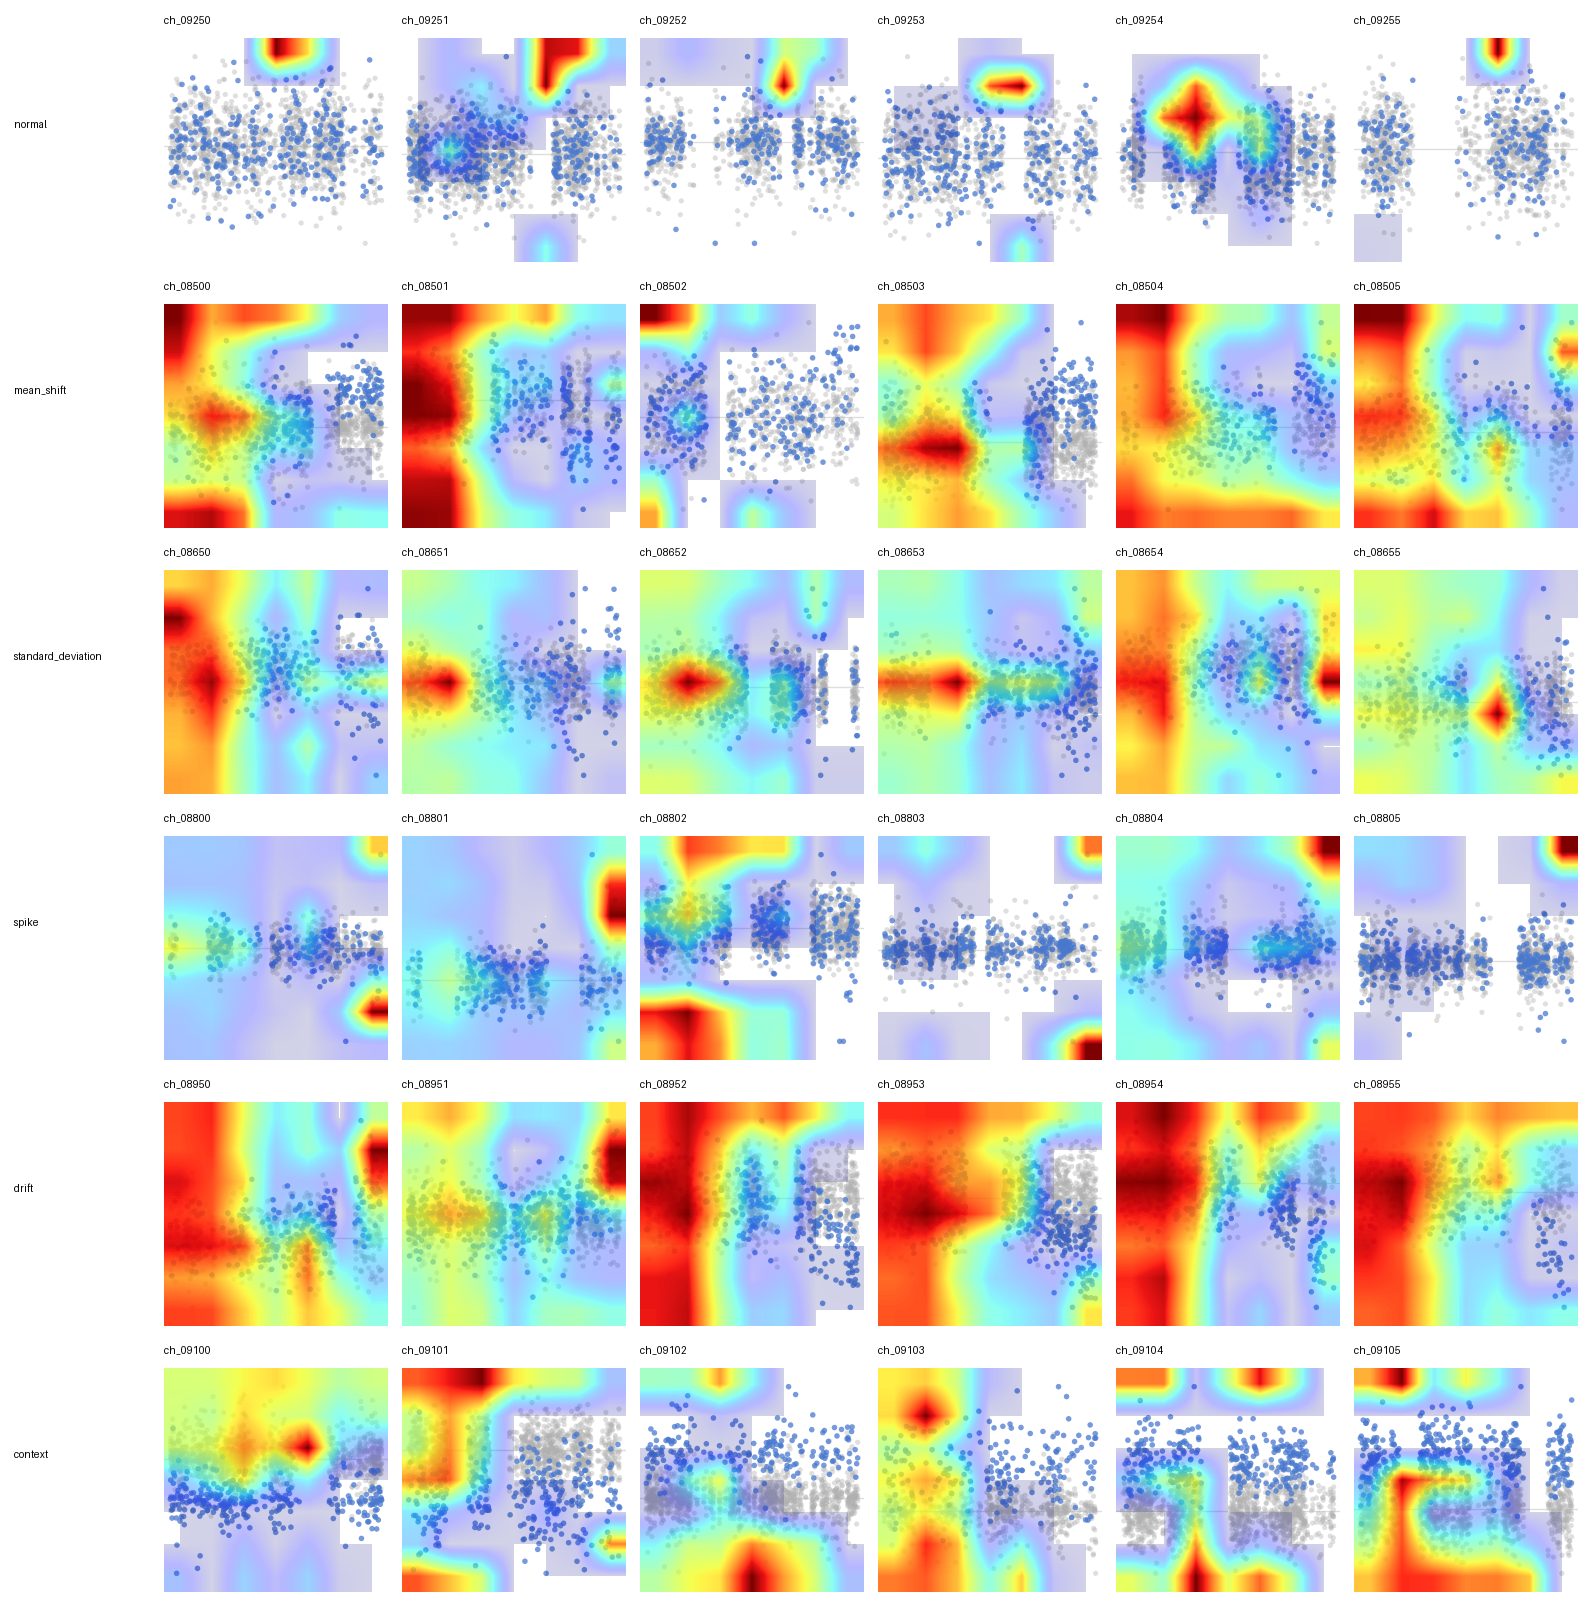
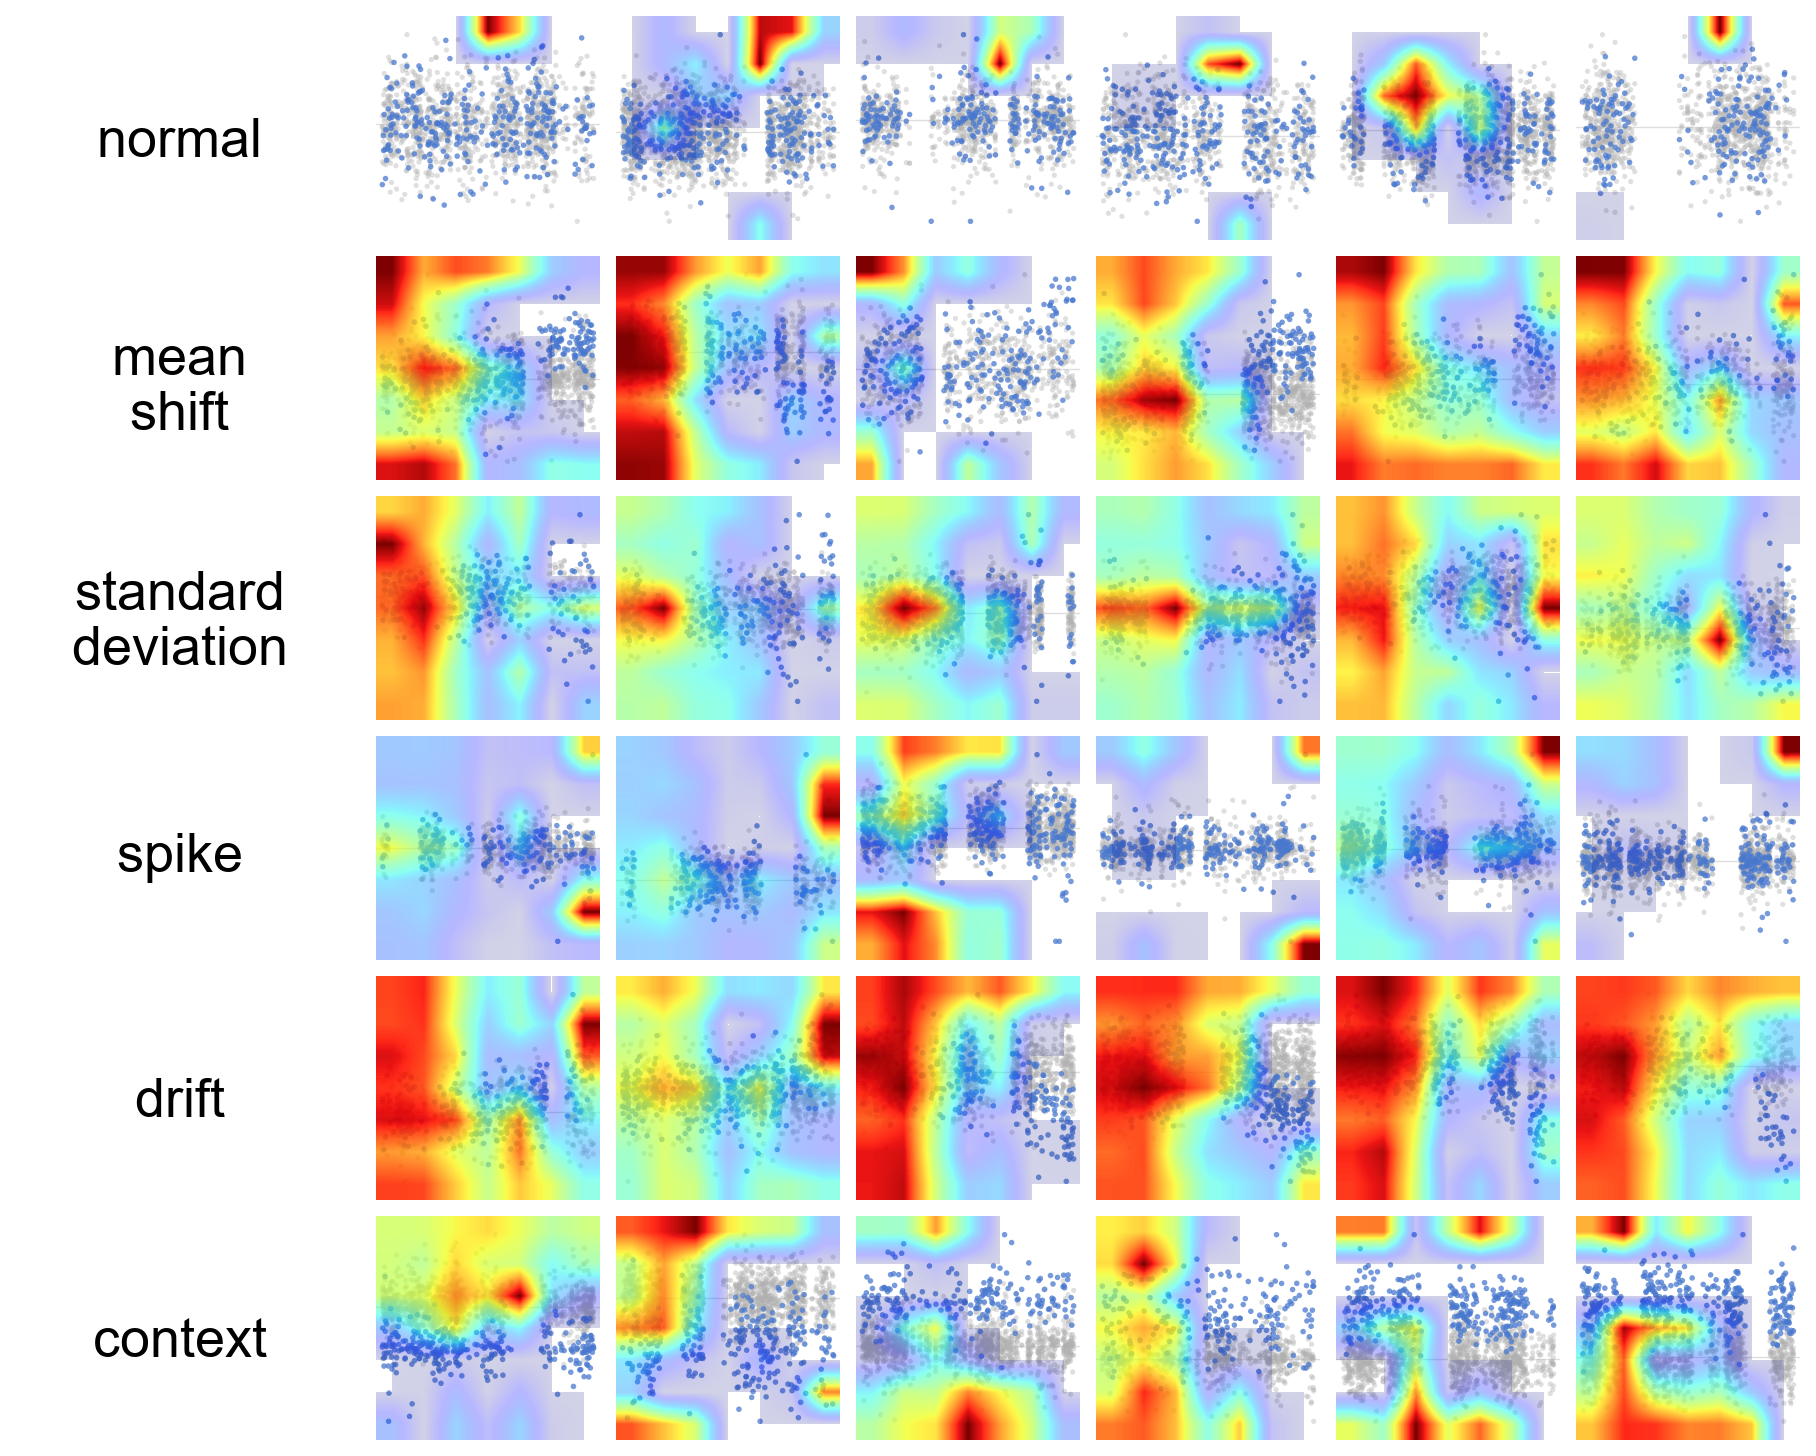
Improve Grad-CAM gallery labels

diff --git a/scripts/gradcam_error_report.py b/scripts/gradcam_error_report.py
@@ -20,7 +20,15 @@ for path in [ROOT, SCRIPT_DIR]:
     if str(path) not in sys.path:
         sys.path.insert(0, str(path))
 
-from gradcam_report import GradCam, build_transform, heat_stats, resolve_layer, save_cam_on_image, save_heat_only_cam
+from gradcam_report import (
+    GradCam,
+    build_transform,
+    heat_stats,
+    load_font,
+    resolve_layer,
+    save_cam_on_image,
+    save_heat_only_cam,
+)
 from inference import _load_model_from_best_info
 
 
@@ -69,33 +77,46 @@ def matches_error(row: dict[str, Any], error_type: str) -> bool:
 def write_gallery(rows: list[dict[str, Any]], gallery_out: Path) -> None:
     if not rows:
         return
-    cell_w, cell_h = 260, 268
-    pad = 18
-    cols = min(3, len(rows))
+    cell_w, image_h, title_h = 224, 224, 56
+    cell_h = image_h + title_h
+    pad = 14
+    cols = min(6, len(rows))
     rows_n = (len(rows) + cols - 1) // cols
     canvas = Image.new("RGBA", (cols * cell_w + (cols + 1) * pad, rows_n * cell_h + (rows_n + 1) * pad), "WHITE")
     draw = ImageDraw.Draw(canvas)
+    title_font = load_font(28)
+    meta_font = load_font(14)
     for idx, row in enumerate(rows):
         x = pad + (idx % cols) * (cell_w + pad)
         y = pad + (idx // cols) * (cell_h + pad)
-        title = f"{row['error_type'].upper()} {row['chart_id']} p={float(row['p_abnormal']):.4f}"
-        draw.text((x, y), title, fill=(0, 0, 0, 255))
+        label = str(row["error_type"]).upper().replace("_", " ")
+        label_bbox = draw.textbbox((0, 0), label, font=title_font)
+        label_x = x + max(0, (cell_w - (label_bbox[2] - label_bbox[0])) // 2)
+        draw.text((label_x, y), label, fill=(0, 0, 0, 255), font=title_font)
+        meta = f"p_abn={float(row['p_abnormal']):.4f}"
+        meta_bbox = draw.textbbox((0, 0), meta, font=meta_font)
+        meta_x = x + max(0, (cell_w - (meta_bbox[2] - meta_bbox[0])) // 2)
+        draw.text((meta_x, y + 34), meta, fill=(50, 50, 50, 255), font=meta_font)
         overlay = Image.open(str(row["cam_overlay"])).convert("RGBA").resize((224, 224))
-        canvas.alpha_composite(overlay, (x, y + 28))
+        canvas.alpha_composite(overlay, (x, y + title_h))
     gallery_out.parent.mkdir(parents=True, exist_ok=True)
     canvas.save(gallery_out)
 
 
 def format_summary(rows: list[dict[str, Any]], args: argparse.Namespace) -> str:
+    actual_errors = sum(1 for row in rows if row["error_type"] in {"fp", "fn"})
+    hard_normal = sum(1 for row in rows if row["error_type"] == "hard_normal")
     lines = [
         "# Grad-CAM Error Report",
         "",
         f"- model_run: `{args.model_run}`",
         f"- split: `{args.split}`",
         f"- error_type: `{args.error_type}`",
-        f"- errors: `{len(rows)}`",
+        f"- selected: `{len(rows)}`",
+        f"- actual_errors: `{actual_errors}`",
+        f"- hard_normal_fill: `{hard_normal}`",
         "",
-        "| error | chart_id | true | pred | p_abnormal | left | mid | right | peak_x | cam |",
+        "| sample | chart_id | true | pred | p_abnormal | left | mid | right | peak_x | cam |",
         "| --- | --- | --- | --- | ---: | ---: | ---: | ---: | ---: | --- |",
     ]
     for row in rows:
@@ -111,6 +132,7 @@ def format_summary(rows: list[dict[str, Any]], args: argparse.Namespace) -> str:
             "Notes:",
             "- CAM target is the `abnormal` logit.",
             "- For FP, this shows what normal-looking pattern the model used as abnormal evidence.",
+            "- `hard_normal` rows are true-normal samples with high `p_abnormal`, used only when actual FP rows are fewer than the requested limit.",
             "- CAM location is evidence location, not guaranteed defect location.",
         ]
     )
@@ -129,8 +151,39 @@ def parse_args() -> argparse.Namespace:
     parser.add_argument("--heat-threshold", type=float, default=0.25)
     parser.add_argument("--heat-min-alpha", type=float, default=0.0)
     parser.add_argument("--gallery-out", default=None, type=Path)
+    parser.add_argument("--limit", type=int, default=0, help="maximum rows to run Grad-CAM for; 0 means all")
+    parser.add_argument(
+        "--fill-hard-normal",
+        action="store_true",
+        help="for FP reports, fill missing slots with normal samples ranked by p_abnormal",
+    )
     parser.add_argument("--cpu", action="store_true")
     return parser.parse_args()
+
+
+def rank_candidates(rows: list[dict[str, Any]], error_type: str) -> list[dict[str, Any]]:
+    if error_type == "fn":
+        return sorted(rows, key=lambda row: float(row["p_abnormal"]))
+    return sorted(rows, key=lambda row: float(row["p_abnormal"]), reverse=True)
+
+
+def select_items_for_cam(predicted_rows: list[dict[str, Any]], args: argparse.Namespace) -> list[dict[str, Any]]:
+    error_rows: list[dict[str, Any]] = []
+    hard_normal_rows: list[dict[str, Any]] = []
+    for row in predicted_rows:
+        if matches_error(row, args.error_type):
+            error_type = "fp" if row["true_binary"] == "normal" else "fn"
+            error_rows.append({**row, "error_type": error_type})
+        elif args.error_type == "fp" and args.fill_hard_normal and row["true_binary"] == "normal":
+            hard_normal_rows.append({**row, "error_type": "hard_normal"})
+
+    selected = rank_candidates(error_rows, args.error_type)
+    if args.limit > 0:
+        selected = selected[: args.limit]
+        remaining = args.limit - len(selected)
+        if remaining > 0 and args.error_type == "fp" and args.fill_hard_normal:
+            selected.extend(rank_candidates(hard_normal_rows, "fp")[:remaining])
+    return selected
 
 
 def main() -> int:
@@ -142,20 +195,23 @@ def main() -> int:
     transform = build_transform()
     items = load_items(args.scenarios, args.image_dir, args.split)
 
+    predicted_rows: list[dict[str, Any]] = []
+    for item in items:
+        image_path = Path(item["image_path"])
+        x = transform(Image.open(image_path).convert("RGB")).unsqueeze(0).to(device)
+        with torch.no_grad():
+            pred_class, p_abn = binary_pred(F.softmax(model(x), dim=1)[0], classes)
+        predicted_rows.append({**item, "pred_class": pred_class, "p_abnormal": p_abn})
+
+    selected_rows = select_items_for_cam(predicted_rows, args)
     rows: list[dict[str, Any]] = []
     try:
-        for item in items:
+        for item in selected_rows:
             image_path = Path(item["image_path"])
             x = transform(Image.open(image_path).convert("RGB")).unsqueeze(0).to(device)
-            with torch.no_grad():
-                pred_class, p_abn = binary_pred(F.softmax(model(x), dim=1)[0], classes)
-            base_row: dict[str, Any] = {**item, "pred_class": pred_class, "p_abnormal": p_abn}
-            if not matches_error(base_row, args.error_type):
-                continue
-
             cam, _ = gradcam(x, abn_idx)
             stats = heat_stats(cam)
-            error_type = "fp" if item["true_binary"] == "normal" else "fn"
+            error_type = str(item["error_type"])
             out_name = f"{error_type}__{item['true_class']}__{item['chart_id']}.png"
             cam_overlay = args.out_dir / "cam_on_image" / out_name
             heat_only = args.out_dir / "heat_only" / out_name
@@ -163,7 +219,7 @@ def main() -> int:
             save_heat_only_cam(cam, heat_only, args.heat_threshold)
             rows.append(
                 {
-                    **base_row,
+                    **item,
                     "error_type": error_type,
                     "cam_overlay": str(cam_overlay),
                     "heat_only": str(heat_only),
@@ -204,7 +260,9 @@ def main() -> int:
     print(f"[gradcam-errors] wrote {summary_path}")
     if args.gallery_out is not None:
         print(f"[gradcam-errors] gallery={args.gallery_out}")
-    print(f"[gradcam-errors] {args.error_type} count={len(rows)}")
+    actual_errors = sum(1 for row in rows if row["error_type"] in {"fp", "fn"})
+    hard_normal = sum(1 for row in rows if row["error_type"] == "hard_normal")
+    print(f"[gradcam-errors] selected={len(rows)} actual_errors={actual_errors} hard_normal_fill={hard_normal}")
     return 0
 
 

diff --git a/scripts/gradcam_report.py b/scripts/gradcam_report.py
@@ -16,7 +16,7 @@ import matplotlib.pyplot as plt
 import numpy as np
 import torch
 import torch.nn.functional as F
-from PIL import Image, ImageDraw
+from PIL import Image, ImageDraw, ImageFont
 from torchvision import transforms
 
 ROOT = Path(__file__).resolve().parents[1]
@@ -27,6 +27,25 @@ from inference import _load_model_from_best_info
 
 IMAGE_EXTS = {".png", ".jpg", ".jpeg", ".bmp", ".webp"}
 RIGHT_START = 0.70
+
+
+def load_font(size: int) -> ImageFont.ImageFont:
+    for font_name in ("arial.ttf", "Arial.ttf", "DejaVuSans.ttf"):
+        try:
+            return ImageFont.truetype(font_name, size=size)
+        except OSError:
+            continue
+    return ImageFont.load_default()
+
+
+def fit_multiline_font(text: str, max_width: int, max_height: int, start_size: int, min_size: int) -> ImageFont.ImageFont:
+    probe = ImageDraw.Draw(Image.new("RGB", (1, 1)))
+    for size in range(start_size, min_size - 1, -1):
+        font = load_font(size)
+        bbox = probe.multiline_textbbox((0, 0), text, font=font, spacing=4, align="center")
+        if bbox[2] - bbox[0] <= max_width and bbox[3] - bbox[1] <= max_height:
+            return font
+    return load_font(min_size)
 
 
 def build_transform() -> transforms.Compose:
@@ -200,8 +219,8 @@ def build_cam_overlay_gallery(rows: list[dict[str, Any]], out_path: Path) -> Non
     class_order = [name for name in preferred if name in by_class]
     class_order.extend(sorted(name for name in by_class if name not in class_order))
     cols = max(len(by_class[name]) for name in class_order)
-    label_w, cell_w, cell_h = 150, 224, 252
-    pad = 14
+    label_w, cell_w, cell_h = 360, 224, 224
+    pad = 16
     canvas_w = label_w + cols * cell_w + (cols + 1) * pad
     canvas_h = len(class_order) * cell_h + (len(class_order) + 1) * pad
     canvas = Image.new("RGBA", (canvas_w, canvas_h), "WHITE")
@@ -209,12 +228,25 @@ def build_cam_overlay_gallery(rows: list[dict[str, Any]], out_path: Path) -> Non
 
     for row_idx, class_name in enumerate(class_order):
         y = pad + row_idx * (cell_h + pad)
-        draw.text((pad, y + 104), class_name, fill=(0, 0, 0, 255))
+        label_text = class_name.replace("_", "\n")
+        label_font = fit_multiline_font(label_text, label_w - 2 * pad, cell_h - 2 * pad, 54, 28)
+        label_bbox = draw.multiline_textbbox((0, 0), label_text, font=label_font, spacing=6, align="center")
+        label_text_w = label_bbox[2] - label_bbox[0]
+        label_text_h = label_bbox[3] - label_bbox[1]
+        label_x = pad + (label_w - 2 * pad - label_text_w) // 2
+        label_y = y + (cell_h - label_text_h) // 2
+        draw.multiline_text(
+            (label_x, label_y),
+            label_text,
+            fill=(0, 0, 0, 255),
+            font=label_font,
+            spacing=6,
+            align="center",
+        )
         for col_idx, row in enumerate(by_class[class_name]):
             x = label_w + pad + col_idx * (cell_w + pad)
-            draw.text((x, y), Path(str(row["image"])).stem, fill=(0, 0, 0, 255))
             overlay = Image.open(str(row["cam_overlay"])).convert("RGBA").resize((224, 224))
-            canvas.alpha_composite(overlay, (x, y + 24))
+            canvas.alpha_composite(overlay, (x, y))
 
     out_path.parent.mkdir(parents=True, exist_ok=True)
     canvas.save(out_path)
